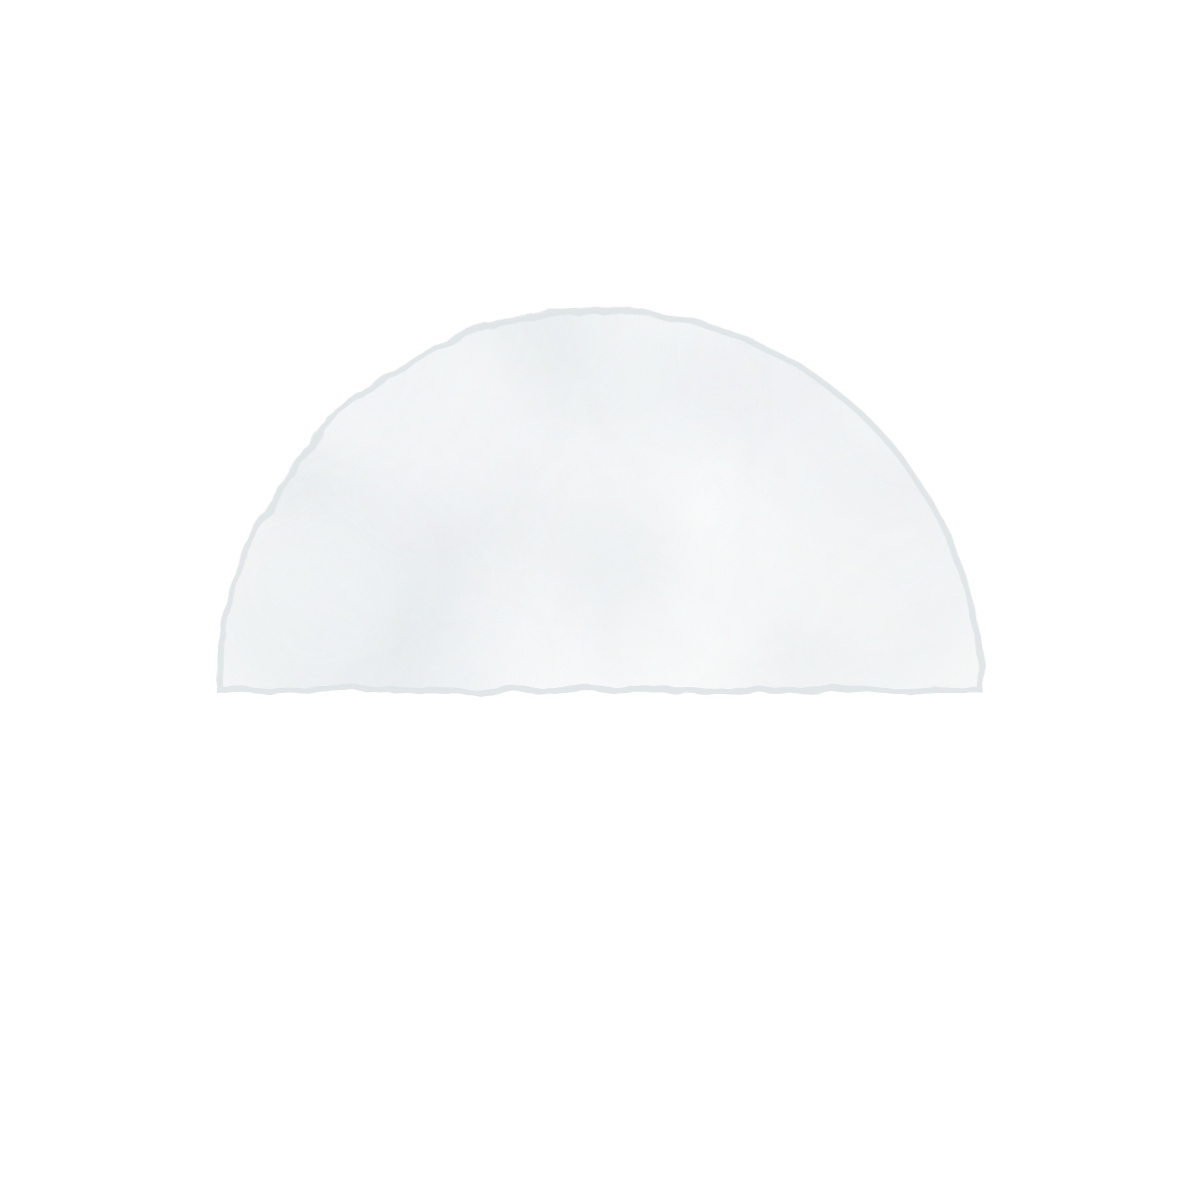
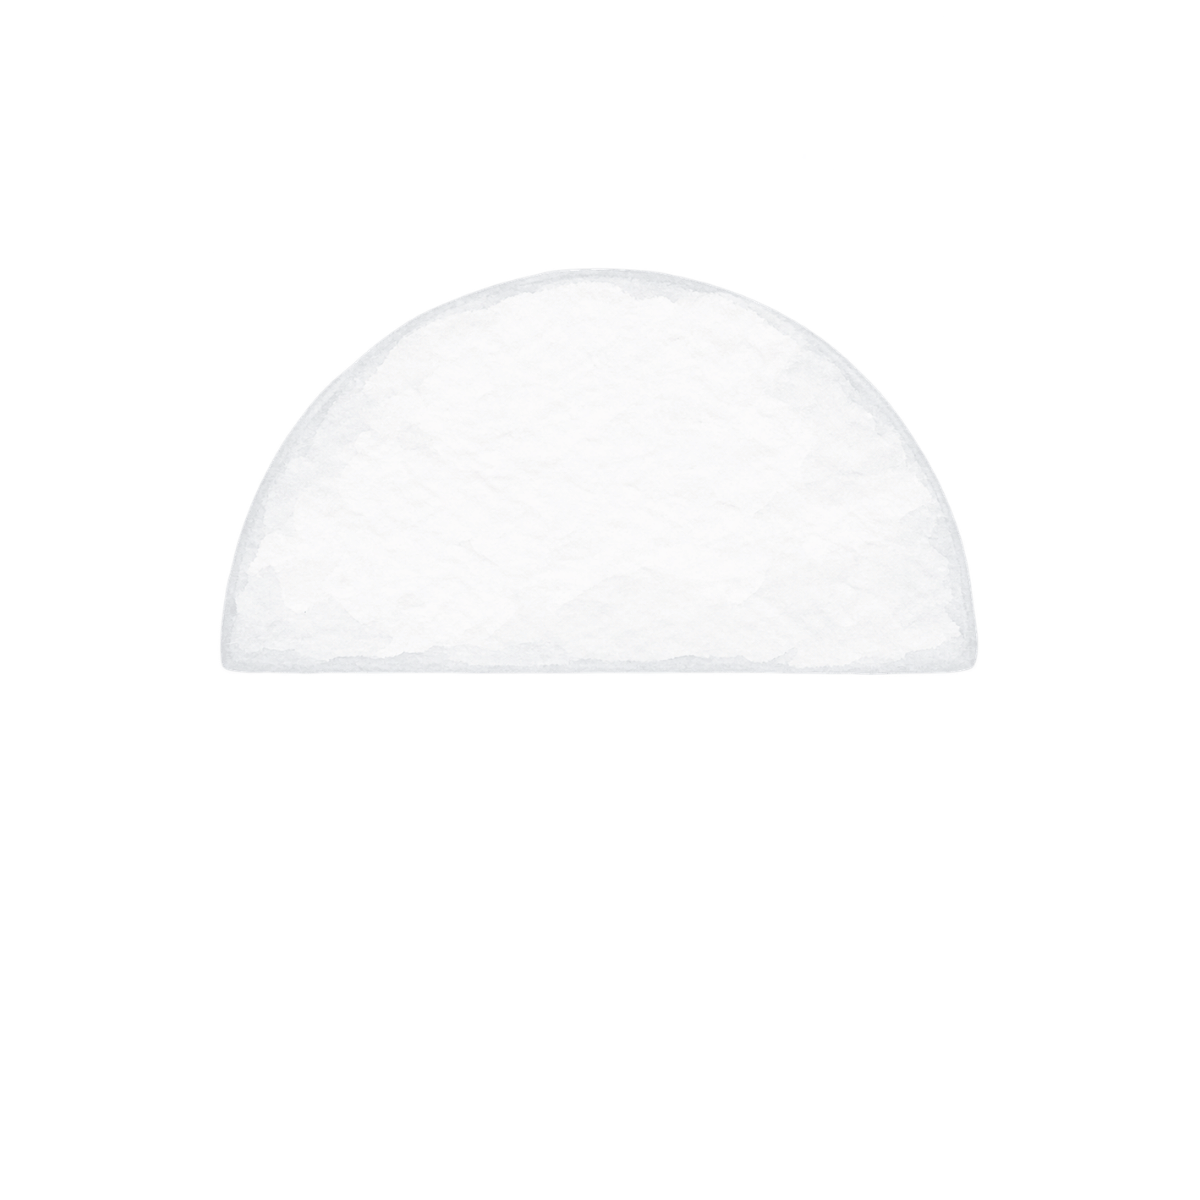
Use the supplied paintings for the western and eastern continents
The two fields sent as replacements take the places of squares 18 and 19, and
the stand-ins painted for them are dropped. The sheets are rebuilt from them.

Claude-Session: https://claude.ai/code/session_01L7ZASdKeo9jT7EDsuJKQrk

diff --git a/ARTWORK.md b/ARTWORK.md
@@ -97,11 +97,10 @@ outline, a mountain, a temple, a ribbon — together with one closing painting,
 for this project as 105 source PNGs with transparent grounds, and they live in
 the repository at `assets/Game of Liberation English titles/`.
 
-Two of the 104 were repainted for this project rather than supplied: squares 18
-and 19, the western and eastern continents, which are now the plain shapes the
-sources give them — a ruby-red disc and a crystal-white half-disc, washed the
-way the rest of the fields are washed. The paintings they replace are in the
-repository's history.
+Squares 18 and 19, the western and eastern continents, were supplied again
+later as the plain shapes the sources give them — a ruby-red disc and a
+crystal-white half-disc — in place of the cartouches first sent for them. The
+paintings they replace are in the repository's history.
 
 `node scripts/build-square-art.cjs` turns them into what the page serves. Each
 painting is cropped to the pixels it actually draws — the sources carry wide and
